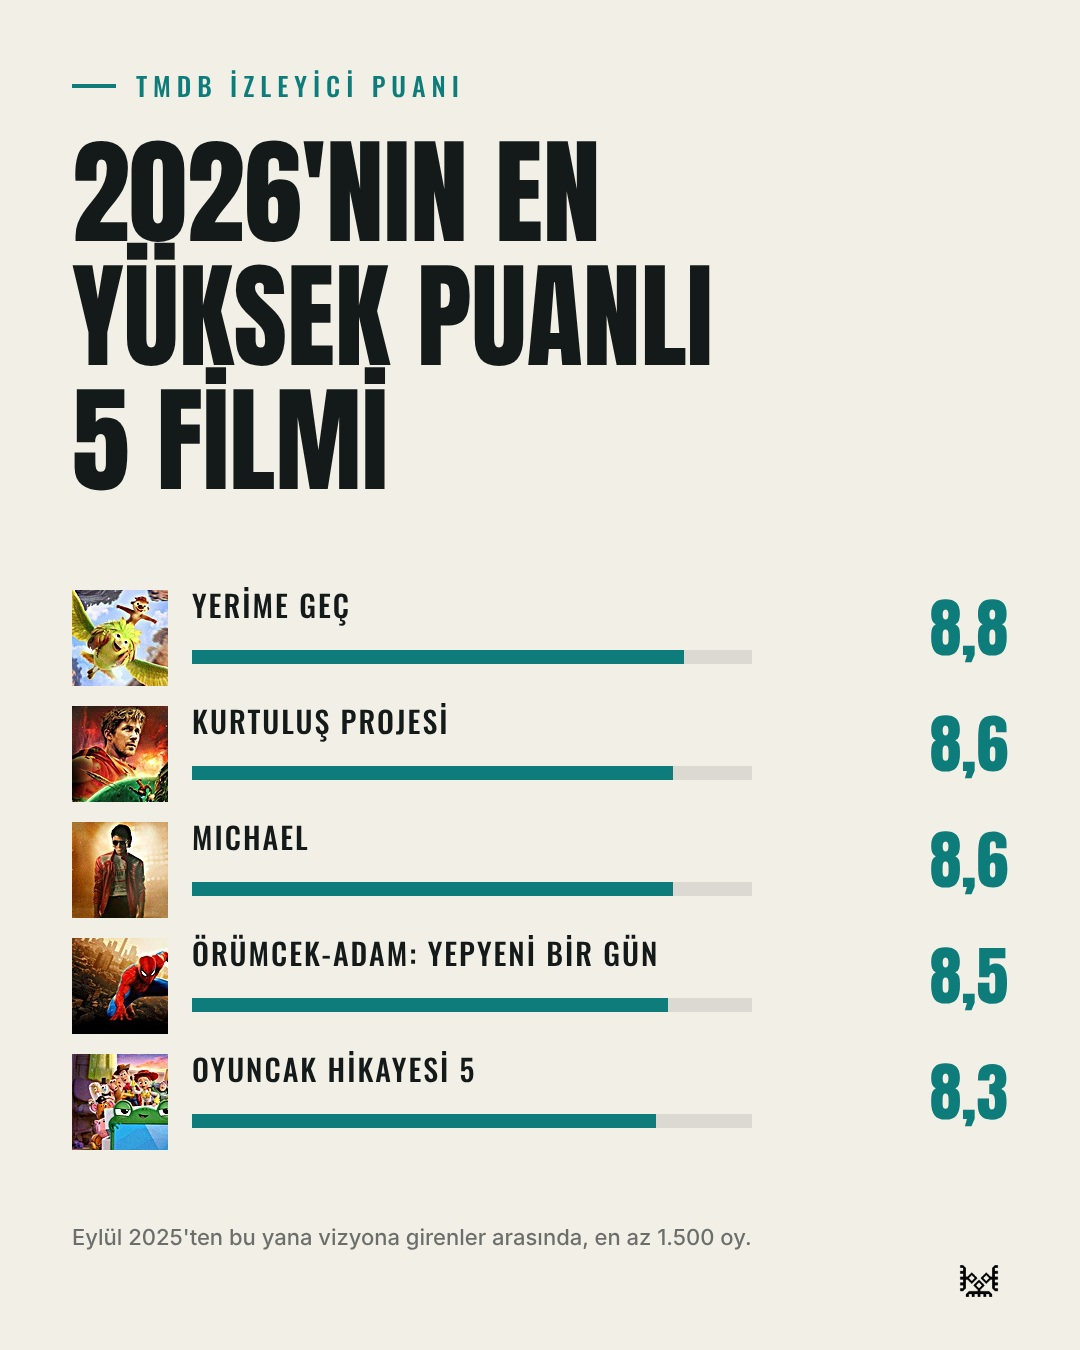
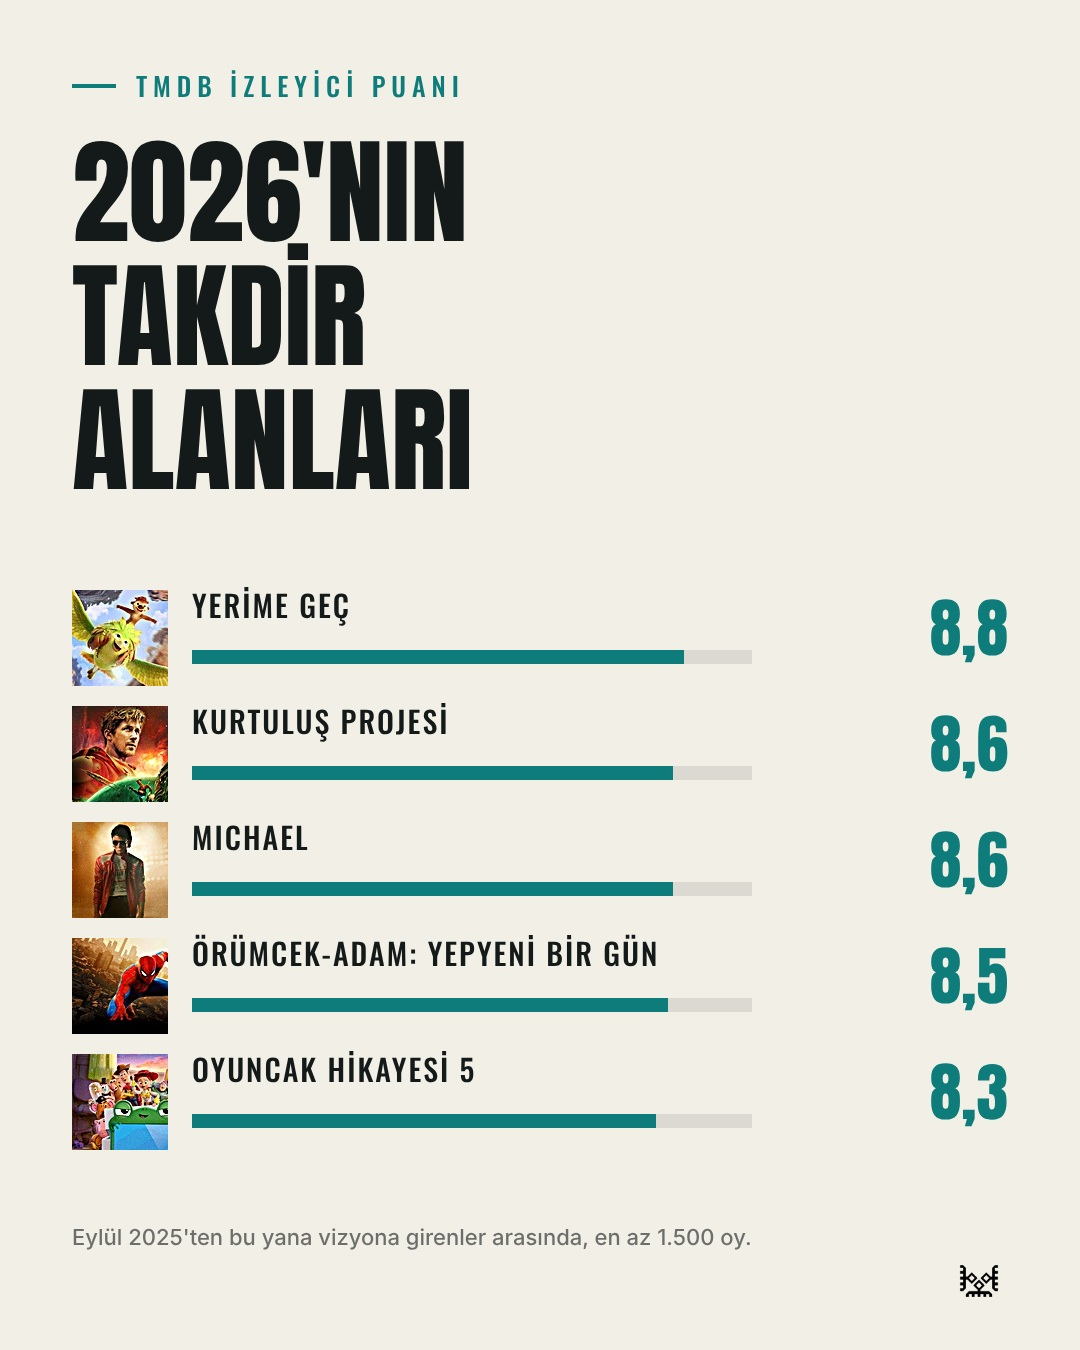
Liste isimleri yaratıcı hale getirildi; 29 Ekim ve Cadılar Bayramı tasarımları yenilendi
Claude-Session: https://claude.ai/code/session_013RjhQCyUYfSSutarfaCBa7

Changed region(s): [[0.0611, 0.0933, 0.6722, 0.3733]]

diff --git a/tools/week2/p03.py b/tools/week2/p03.py
@@ -1,10 +1,11 @@
 from pro import *
 
 ID = "2026-10-31_liste_cadilar-bayrami-5-film"
-TH = theme("#fdf1e3", "#2b2118", "#e8761b", on_acc="#2b2118", head="anton", accent_txt="#b4540a")
-BGS = ["#fdf1e3", "#e3eddc", "#fbe6b4", "#fde0d0", "#e3eddc"]
+INK = "#24163a"
+TH = theme("#ff7a1a", INK, "#ffd23f", on_acc=INK, head="anton", accent_txt=INK, logo_light="black")
+BGS = ["#ffd23f", "#c3a0f5", "#86dcb8", "#ff9fba", "#92cbff"]
 
-CAPTION = """Cadılar Bayramı gecesi için korkutmadan eğlendiren 5 film. Kan yok, gerilim yok; sadece sevimli hayaletler, komik cadılar ve tuhaf dünyalar var.
+CAPTION = """Şeker verirsen korkutmayız. Cadılar Bayramı gecesi için çocukluğumuzun cadıları, hayaletleri ve tuhaf dünyaları: kan yok, gerilim yok, sıfır kâbus. 5 film.
 
 Beetlejuice (1988) hayaletlere yardım eden çılgın bir "biyo-egzorsist"i, Hocus Pocus (1993) yüzyıllar sonra dirilen üç cadı kardeşi, Coraline (2009) gizli bir kapının ardındaki "öteki" dünyayı, The Nightmare Before Christmas (1993) Cadılar Bayramı Şehri'nin kralı Jack'in Noel merakını, Casper (1995) ise dost canlısı bir hayaletin hikâyesini anlatıyor.
 
@@ -22,36 +23,77 @@ FILMS = [
 
 
 
-ARC = lambda w: f"{w // 2}px {w // 2}px 0 0"
+
+import cut
+from PIL import Image, ImageFilter, ImageChops
+import os
+
+CUTS = ["beetlejuice_2", "hocuspocus_1", "coraline_3", "nightmare_3", "casper_1"]
+OUT = os.path.join(os.path.dirname(os.path.abspath(__file__)), "..", "..", "assets", "cutouts")
 
 
-def arch_film(i, n):
-    title, meta, body, src, _, tag = FILMS[i]
+def sticker(name, maxw, maxh, pad=26):
+    path = os.path.join(OUT, f"st_{name}_{maxw}x{maxh}.png")
+    im = cut.cutout(name).convert("RGBA")
+    im = im.crop(im.getchannel("A").point(lambda v: 255 if v > 20 else 0).getbbox())
+    r = min(maxw / im.width, maxh / im.height)
+    im = im.resize((max(1, int(im.width * r)), max(1, int(im.height * r))), Image.LANCZOS)
+    cw, ch = im.width + pad * 4, im.height + pad * 4
+    a = Image.new("L", (cw, ch), 0)
+    a.paste(im.getchannel("A"), (pad * 2, pad * 2))
+    d = a
+    for _ in range(pad // 4 + 1):
+        d = d.filter(ImageFilter.MaxFilter(9))
+    d = d.point(lambda v: 255 if v > 100 else 0).filter(ImageFilter.GaussianBlur(1.2))
+    sh = d.filter(ImageFilter.GaussianBlur(14))
+    out = Image.new("RGBA", (cw, ch), (0, 0, 0, 0))
+    shadow = Image.new("RGBA", (cw, ch), (36, 22, 58, 0))
+    shadow.putalpha(sh.point(lambda v: int(v * 0.35)))
+    out.alpha_composite(shadow, (0, 12))
+    white = Image.new("RGBA", (cw, ch), (255, 255, 255, 255)); white.putalpha(d)
+    out.alpha_composite(white)
+    layer = Image.new("RGBA", (cw, ch), (0, 0, 0, 0)); layer.paste(im, (pad * 2, pad * 2))
+    out.alpha_composite(layer)
+    out.save(path)
+    return path, cw, ch
+
+
+def stk(name, cx, cy, maxw, maxh, rot=0, z=5):
+    p, w, h = sticker(name, maxw, maxh)
+    return img(p, cx - w // 2, cy - h // 2, w, h, z=z, fit="contain", rot=rot)
+
+
+def film(i, n):
+    title, meta, body, _s, _s2, tag = FILMS[i]
+    rots = [-4, 3, -3, 4, -3]
+    sizes = [(700, 620), (880, 560), (420, 640), (760, 600), (820, 560)]
+    sw, sh = sizes[i]
     return {"bg": BGS[i], "els": [
-        img(grade(src, (680, 780), (0.15, 0, 0.85, 1)), 200, 72, 680, 780, z=2, radius=ARC(680)),
-        label(tag, 200 + 340 - 70, 60, bg=TH["accent"], color="#2b2118", size=22, z=6),
-        T(title, M, 890, W - 2 * M, 100, 92, "anton", TH["ink"], nowrap=True, mn=44, lh=1.05, align="center"),
-        T(meta, M, 1000, W - 2 * M, 36, 26, "oswald", TH["accent_txt"], weight=500, ls=4, upper=True, nowrap=True, mn=18, align="center"),
-        T(body, 150, 1054, W - 300, 170, 36, "inter", TH["ink"], weight=500, lh=1.38, mn=26, align="center"),
-        *footer(TH, i + 1, n),
+        T(f"{i+1:02d}", M, 56, 200, 90, 80, "anton", INK, fit=False, lh=1.0, nowrap=True),
+        label(tag.upper(), W - M - 340, 70, bg=INK, color="#fff", size=22, z=8),
+        stk(CUTS[i], 540, 410, sw, sh, rot=rots[i]),
+        T(title, M, 800, W - 2 * M, 130, 104, "anton", INK, nowrap=True, mn=44, lh=1.05, align="center", z=6),
+        T(meta, M, 936, W - 2 * M, 34, 26, "oswald", INK, weight=500, ls=5, upper=True, nowrap=True, mn=16, align="center", op=0.75),
+        T(body, 110, 992, W - 220, 190, 36, "inter", INK, weight=500, lh=1.38, mn=26, align="center"),
+        T(f"{i+1} / 6", M, 1268, 200, 34, 22, "oswald", INK, fit=False, weight=500, ls=4, op=0.6),
+        logo("black", W - M - 58, 1252, 58, z=9),
     ]}
 
 
 def build():
     n = 7
     els = [
-        T("KORKUTMADAN<br>EĞLENDİREN<br>5 FİLM", M, 70, W - 2 * M, 470, 190, "anton", TH["ink"], nowrap=True, mn=70, lh=1.07),
-        T("CADILAR BAYRAMI GECESİ", M, 580, 700, 34, 26, "oswald", TH["accent_txt"], fit=False, weight=500, ls=6, upper=True, nowrap=True),
+        T("ŞEKER<br>VERİRSEN<br>KORKUTMAYIZ", M, 70, W - 2 * M, 560, 165, "anton", INK, nowrap=True, mn=70, lh=1.24, z=3),
+        T("CADILAR BAYRAMI İÇİN 5 FİLM", M, 630, 800, 34, 26, "oswald", INK, fit=False, weight=500, ls=6, upper=True, nowrap=True, z=3),
+        stk("casper_1", 830, 840, 440, 360, rot=5, z=4),
+        stk("hocuspocus_1", 440, 950, 620, 450, rot=-4, z=6),
+        stk("coraline_3", 170, 880, 190, 380, rot=-6, z=5),
+        stk("beetlejuice_2", 830, 1090, 380, 440, rot=6, z=7),
+        stk("nightmare_3", 190, 1130, 230, 230, rot=-4, z=8),
+        T("Sıfır kâbus. Kaydet, bu gece aç.", 360, 1290, 600, 36, 24, "inter", INK, weight=600, nowrap=True, z=9),
+        logo("black", W - M - 58, 1262, 58, z=9),
     ]
-    heights = [520, 440, 520, 440, 520]
-    for k, f in enumerate(FILMS):
-        w = 176
-        x = M + k * (w + 15)
-        h = heights[k]
-        els.append(img(grade(f[4], (w, h), (0.25, 0, 0.75, 1)), x, 1180 - h, w, h, z=2, radius=ARC(w)))
-    els.append(T("Kan yok, gerilim yok. Kaydet, bu gece aç.", M, 1214, 800, 40, 26, "inter", TH["ink"], weight=500, nowrap=True, op=0.8))
-    els.append(logo("black", W - M - 58, 1252, 58, z=9))
-    cover = {"bg": "#fbe6b4", "els": els}
-    slides = [cover] + [arch_film(i, n) for i in range(5)]
-    slides.append(cta_slide(TH, "BU GECE<br>HANGİSİNİ<br>AÇIYORSUN?", "Yorumlara yaz, ışıkları kıs.", "Kaydet · Aileyle izle"))
+    cover = {"bg": "#ff7a1a", "els": els}
+    slides = [cover] + [film(i, n) for i in range(5)]
+    slides.append(cta_slide(TH, "BU GECE<br>HANGİSİNİ<br>AÇIYORSUN?", "Yorumlara yaz, şekerleri ayır.", "Kaydet · Aileyle izle"))
     return {"id": ID, "caption": CAPTION, "slides": slides}

diff --git a/tools/week2/p00.py b/tools/week2/p00.py
@@ -1,0 +1,57 @@
+from pro import *
+
+ID = "2026-10-29_liste_hayati-sorgulatan-4-film"
+PAPER, INK, GRN, CLAY = "#efe7d6", "#1f2a24", "#2f5d46", "#b5532f"
+TH = theme(PAPER, INK, GRN, on_acc="#fff", head="serif", accent_txt=GRN, upper=False)
+
+CAPTION = """Yavaş ama derin. Telefonu bırakıp bir akşamını verebileceğin, bittiğinde "ben ne yapıyorum ya" dedirten 4 sakin film.
+
+The Tree of Life (2011) bir ailenin hikâyesini evrenin yaratılışıyla yan yana koyuyor ve Cannes'da Altın Palmiye aldı. Wild Strawberries (1957) yaşlı bir profesörün geçmişine yaptığı yolculuğu Bergman'ın kaleminden anlatıyor. Perfect Days (2023) Tokyo'da tuvaletleri temizleyen bir adamın sakin günlerini izliyor, Koji Yakusho bu rolle Cannes'da En İyi Erkek Oyuncu seçildi. Paterson (2016) şiir yazan bir otobüs şoförünün haftasını anlatıyor.
+
+Bu hafta bir akşamını bunlardan birine ayır. Sen hangisinden sonra hayatına dair bir şeyi değiştirdin?
+
+Cumhuriyet Bayramımız kutlu olsun.
+
+Yarın 18:00'de: Bitince "şimdi başa saralım" dedirten 5 film."""
+
+FILMS = [
+    ("THE TREE OF LIFE", "2011 · Terrence Malick", "Bir ailenin hikâyesi, evrenin yaratılışıyla yan yana anlatılır. Cannes'da Altın Palmiye kazandı.", "n_treeoflife_3", "Ne kadar küçük, ne kadar büyüğüz?"),
+    ("WILD STRAWBERRIES", "1957 · Ingmar Bergman", "Yaşlı bir profesör, onur ödülüne giderken geçmişinin içinden de geçer.", "n_wildstraw_3", "Geriye bakınca ne görürsün?"),
+    ("PERFECT DAYS", "2023 · Wim Wenders", "Tokyo'da tuvalet temizleyen bir adamın sakin günleri. Koji Yakusho, Cannes'da En İyi Erkek Oyuncu seçildi.", "n_perfectdays_4", "Küçük ritüeller yeter mi?"),
+    ("PATERSON", "2016 · Jim Jarmusch", "Şiir yazan bir otobüs şoförünün sıradan bir haftası.", "n_paterson_1", "Sıradan günde şiir var mı?"),
+]
+COVER = ["n_treeoflife_2", "n_wildstraw_2", "n_perfectdays_2", "n_paterson_6"]
+
+
+def film(i, n):
+    t, meta, body, src, q = FILMS[i]
+    return {"bg": PAPER, "els": [
+        img(grade(src, (W, 720), (0, 0, 1, 1)), 0, 0, W, 720, z=2),
+        box(0, 720, W, 10, GRN, z=3),
+        T(f"{i+1}", M, 764, 140, 150, 130, "serif", CLAY, fit=False, lh=1.0, nowrap=True, weight=700),
+        T(t.title().replace(" Of "," of "), 200, 770, W - 200 - M, 100, 76, "serif", INK, nowrap=True, mn=40, lh=1.1, weight=700),
+        T(meta, 204, 876, W - 204 - M, 32, 24, "oswald", GRN, weight=500, ls=4, upper=True, nowrap=True, mn=16),
+        T(body, M, 940, W - 2 * M, 130, 34, "inter", INK, weight=500, lh=1.38, mn=24),
+        box(M, 1112, W - 2 * M, 2, INK, z=3, op=0.25),
+        T(f"“{q}”", M, 1130, W - 2 * M, 80, 44, "caveat", CLAY, weight=700, nowrap=True, mn=26),
+        T(f"{i+1} / 6", M, 1268, 200, 34, 22, "oswald", INK, fit=False, weight=500, ls=4, op=0.6),
+        logo("black", W - M - 58, 1252, 58, z=9),
+    ]}
+
+
+def build():
+    n = 6
+    cw = W // 4
+    strips = [img(grade(s, (cw, 1350), (0.2, 0, 0.8, 1)), k * cw, 0, cw, 1350, z=2) for k, s in enumerate(COVER)]
+    cover = {"bg": INK, "els": [
+        *strips,
+        box(0, 0, W, 1350, INK, z=3, op=0.38),
+        box(0, 700, W, 650, "linear-gradient(180deg,rgba(31,42,36,0),rgba(31,42,36,.92))", z=3),
+        T("YAVAŞ<br>AMA DERİN", M, 640, W - 2 * M, 440, 190, "serif", "#fff", nowrap=True, mn=70, lh=1.05, weight=700, z=6),
+        T("Hayatı yeniden düşündüren 4 sakin film", M, 1120, W - 2 * M, 50, 38, "caveat", "#f2d9a0", weight=700, nowrap=True, mn=24, z=6),
+        T("TELEFONU BIRAK, BİR AKŞAMINI VER", M, 1200, W - 2 * M - 100, 34, 22, "oswald", "#fff", weight=500, ls=5, nowrap=True, mn=14, z=6, op=0.85),
+        logo("white", W - M - 58, 1252, 58, z=9),
+    ]}
+    slides = [cover] + [film(i, n) for i in range(4)]
+    slides.append(cta_slide(TH, "Hangisinden sonra<br>hayatında bir şey<br>değişti?", "Yorumlara yaz.", "29 Ekim · Cumhuriyet Bayramımız kutlu olsun"))
+    return {"id": ID, "caption": CAPTION, "slides": slides}

diff --git a/tools/week2/p01.py b/tools/week2/p01.py
@@ -3,7 +3,7 @@ ORG, CRM, BLU, INK, YEL = "#ff5a1f", "#f4efe6", "#2447ff", "#14110f", "#ffd23f"
 
 ID = "2026-10-30_liste_basa-sardiran-5-film"
 TH = theme("#f1ece3", "#161412", "#c8321f", on_acc="#fff", head="anton")
-CAPTION = """Bitince "dur, şimdi başa saralım" dedirten 5 film. Hepsinin ortak noktası şu: ilk izlemede hikâyeyi anladığını sanıyorsun, ikinci izlemede her sahnede bir ipucu görüp "bunu nasıl kaçırdım" diyorsun.
+CAPTION = """İzledim, şimdi başa sarıyorum. Bitince "dur, bir daha bakayım" dedirten 5 film. Hepsinin ortak noktası şu: ilk izlemede hikâyeyi anladığını sanıyorsun, ikinci izlemede her sahnede bir ipucu görüp "bunu nasıl kaçırdım" diyorsun.
 
 The Prestige (2006) birbirini alt etmeye çalışan iki sihirbazın takıntısını, Shutter Island (2010) bir adadaki akıl hastanesinden kaybolan hastanın izini, The Usual Suspects (1995) bir sorgu odasında anlatılan hikâyenin ne kadarının doğru olduğunu, Gone Girl (2014) evlilik yıldönümünde kaybolan bir kadının ardından başlayan şüpheyi, The Sixth Sense (1999) ise ölüleri gördüğünü söyleyen bir çocuğun hikâyesini anlatıyor.
 
@@ -64,7 +64,7 @@ def build():
         box(0, 300, W, 1050, "linear-gradient(180deg,rgba(0,0,0,0),rgba(0,0,0,.9) 58%)", z=2),
         logo("white", W - M - 58, 64, 58, z=9),
         *rewind_icon(M, 560, 2.4),
-        T("BİTİNCE<br>BAŞA<br>SARDIRAN", M, 700, W - 2 * M, 480, 175, "anton", "#fff", nowrap=True, mn=70, lh=1.06),
+        T("İZLEDİM,<br>ŞİMDİ BAŞA<br>SARIYORUM", M, 700, W - 2 * M, 480, 175, "anton", "#fff", nowrap=True, mn=70, lh=1.16),
         T("5 film · Spoiler yok · Kaydet", M, 1200, 800, 30, 24, "oswald", "#fff", fit=False, weight=500, ls=4, upper=True, nowrap=True, op=0.85),
         *player_bar(0, 5),
     ]}

diff --git a/tools/week2/p07.py b/tools/week2/p07.py
@@ -4,7 +4,7 @@ ID = "2026-11-03_liste_buyuyunce-vuran-animasyon"
 PEACH = MINT = LILAC = BUT = SKY = "#fff"
 TH = theme("#eaf4ff", "#16213e", "#ffb703", on_acc="#16213e", head="serif", accent_txt="#a86a00")
 
-CAPTION = """Çocukken renkleri için izlemiştin. Büyüyünce konuşmadıkları şeyin ne kadar ağır olduğunu fark ediyorsun. Çocukken izlediğin, büyüyünce başka vuran 5 animasyon.
+CAPTION = """Çizgi film diye girdim, ağlayarak çıktım. Çocukken renkleri için izlemiştin. Büyüyünce konuşmadıkları şeyin ne kadar ağır olduğunu fark ediyorsun. Çocukken izlediğin, büyüyünce başka vuran 5 animasyon.
 
 Up (2009) yaşlı Carl'ın evini balonlarla uçurmasını, Coco (2017) müziği yasak bir ailenin çocuğu Miguel'in Ölüler Günü yolculuğunu, Inside Out (2015) 11 yaşındaki Riley'nin kafasındaki duyguların taşınma telaşını, WALL·E (2008) terk edilmiş Dünya'da çöp toplayan küçük bir robotun aşkını, Your Name (2016) ise birbirinin bedeninde uyanan iki gencin hikâyesini anlatıyor. İlk dördü En İyi Animasyon Oscar'ını aldı.
 
@@ -45,7 +45,7 @@ def round_film(i, n):
 def build():
     n = 7
     els = [
-        T("Çocukken izledin,<br>büyüyünce başka vurdu", M, 70, W - 2 * M, 250, 96, "serif", TH["ink"], nowrap=True, mn=50, lh=1.12, align="center"),
+        T("Çizgi film diye girdim,<br>ağlayarak çıktım", M, 70, W - 2 * M, 250, 96, "serif", TH["ink"], nowrap=True, mn=50, lh=1.12, align="center"),
         card(FILMS[0][4], 56, 360, 968, 560, 48),
     ]
     for k in range(1, 5):

diff --git a/tools/week2/p10.py b/tools/week2/p10.py
@@ -3,7 +3,7 @@ from pro import *
 ID = "2026-11-05_liste_tek-mekanda-gecen-5-film"
 TH = theme("#f1ece3", "#161412", "#0f2a4a", on_acc="#fff", head="anton")
 
-CAPTION = """Büyük bütçe yok, devasa dekor yok. Tek bir oda, tek bir araç, tek bir mekân var; ama sonuna kadar nefes alamıyorsun. Tek mekânda geçen 5 film.
+CAPTION = """Kapı kilitli, nefes askıda. Büyük bütçe yok, devasa dekor yok. Tek bir oda, tek bir araç, tek bir mekân var; ama sonuna kadar nefes alamıyorsun. Tek mekânda geçen 5 film.
 
 12 Angry Men (1957) bir jüri odasındaki on iki kişiyi, Rope (1948) bir dairede işlenen "kusursuz cinayet"i, Locke (2013) bir arabada geçen bir geceyi, Buried (2010) bir tabutun içinde uyanan adamı, Cube (1997) birbirine geçen küp odalardan oluşan bir yapıda uyanan altı yabancıyı anlatıyor.
 
@@ -63,7 +63,7 @@ def build():
         duo(S("cube", 3)),
         box(0, 380, W, 970, "linear-gradient(180deg,rgba(4,10,20,0),rgba(8,22,44,.82) 58%)", z=2),
         *brackets(), *rec_bar("5 FİLM · TEK ODA"),
-        T("TEK ODADA<br>GEÇEN<br>5 FİLM", 88, 620, W - 176, 520, 190, "anton", "#fff", nowrap=True, mn=70, lh=1.06),
+        T("KAPI KİLİTLİ,<br>NEFES<br>ASKIDA", 88, 620, W - 176, 520, 190, "anton", "#fff", nowrap=True, mn=70, lh=1.06),
         T("Büyük bütçe yok, nefes almak da yok.", 88, 1180, 800, 36, 26, "inter", "#fff", weight=500, nowrap=True, op=0.85),
         logo("white", W - 88 - 52, 1186, 52, z=9),
     ]}

diff --git a/tools/week2/p09.py b/tools/week2/p09.py
@@ -6,7 +6,7 @@ CRM, INK = "#f4ede2", "#2a2420"
 MUS, SAGE, ROSE, SKY = "#f2c24f", "#a8c4ab", "#f0a9a0", "#a9c8e8"
 TH = theme(CRM, INK, MUS, on_acc=INK, head="anton", acc_logo="black")
 
-CAPTION = """Dışarısı Kasım, içerisi sinema. Battaniyeye sarılıp çayı demleyince açılacak 4 film: gürültü yok, yıkım yok, sadece sıcacık hikâyeler.
+CAPTION = """Çayı demle, filmi biz seçtik. Battaniyeye sarılıp çayı demleyince açılacak 4 film: gürültü yok, yıkım yok, sadece sıcacık hikâyeler.
 
 About Time (2013) ailesindeki erkeklerin zamanda geriye gidebildiğini öğrenen bir gencin aşk ve aile hikâyesini, Paddington 2 (2017) hapse düşen sevimli ayının macerasını, Chef (2014) işinden ayrılıp yemek kamyonuyla yola çıkan bir şefi, Little Women (2019) March kardeşlerin büyüme hikâyesini anlatıyor. Little Women, En İyi Kostüm Tasarımı dalında Oscar aldı.
 
@@ -52,7 +52,7 @@ def build():
     n = 6
     els = [
         *kicker(TH, "4 film · battaniye · çay", M, 66, color=INK, w=900),
-        T("DIŞARISI KASIM,<br>İÇERİSİ SİNEMA", M, 130, W - 2 * M, 330, 140, "anton", INK, nowrap=True, mn=60, lh=1.1),
+        T("ÇAYI DEMLE,<br>FİLMİ BİZ<br>SEÇTİK", M, 130, W - 2 * M, 330, 140, "anton", INK, nowrap=True, mn=60, lh=1.2),
     ]
     cover_names = ["abouttime_3", "paddington2_2", "chef_3", "littlewomen_1"]
     D = 320

diff --git a/tools/week2/p06.py b/tools/week2/p06.py
@@ -4,7 +4,7 @@ ID = "2026-11-02_liste_2026-en-yuksek-puanli-5-film"
 TEAL, CRM, INK = "#0e7c7b", "#f2efe6", "#141a1a"
 TH = theme(CRM, INK, TEAL, on_acc="#fff", head="anton")
 
-CAPTION = """2026'nın şimdiye kadar en yüksek puan alan 5 filmi. Eylül 2025'ten bu yana vizyona giren ve en az 1.500 oy almış filmler arasında TMDB izleyici puanına göre en tepedekiler hepsi bu yılın yapımı çıktı.
+CAPTION = """2026'nın takdir alanları. Yılın en yüksek puanlı 5 filmi. Eylül 2025'ten bu yana vizyona giren ve en az 1.500 oy almış filmler arasında TMDB izleyici puanına göre en tepedekiler hepsi bu yılın yapımı çıktı.
 
 Yerime Geç 8,8 ile zirvede. Onu 8,6 ile Kurtuluş Projesi ve Michael, 8,5 ile Örümcek-Adam: Yepyeni Bir Gün, 8,3 ile Oyuncak Hikayesi 5 izliyor. Puanlar zamanla değişebilir.
 
@@ -29,7 +29,7 @@ FILMS = [
 def cover():
     els = [
         *kicker(TH, "TMDB izleyici puanı", M, 70),
-        T("2026'NIN EN<br>YÜKSEK PUANLI<br>5 FİLMİ", M, 130, W - 2 * M, 400, 130, "anton", INK, nowrap=True, mn=64, lh=1.07),
+        T("2026'NIN<br>TAKDİR<br>ALANLARI", M, 130, W - 2 * M, 400, 130, "anton", INK, nowrap=True, mn=64, lh=1.07),
     ]
     y = 590
     track_x, track_w = M + 120, 560
